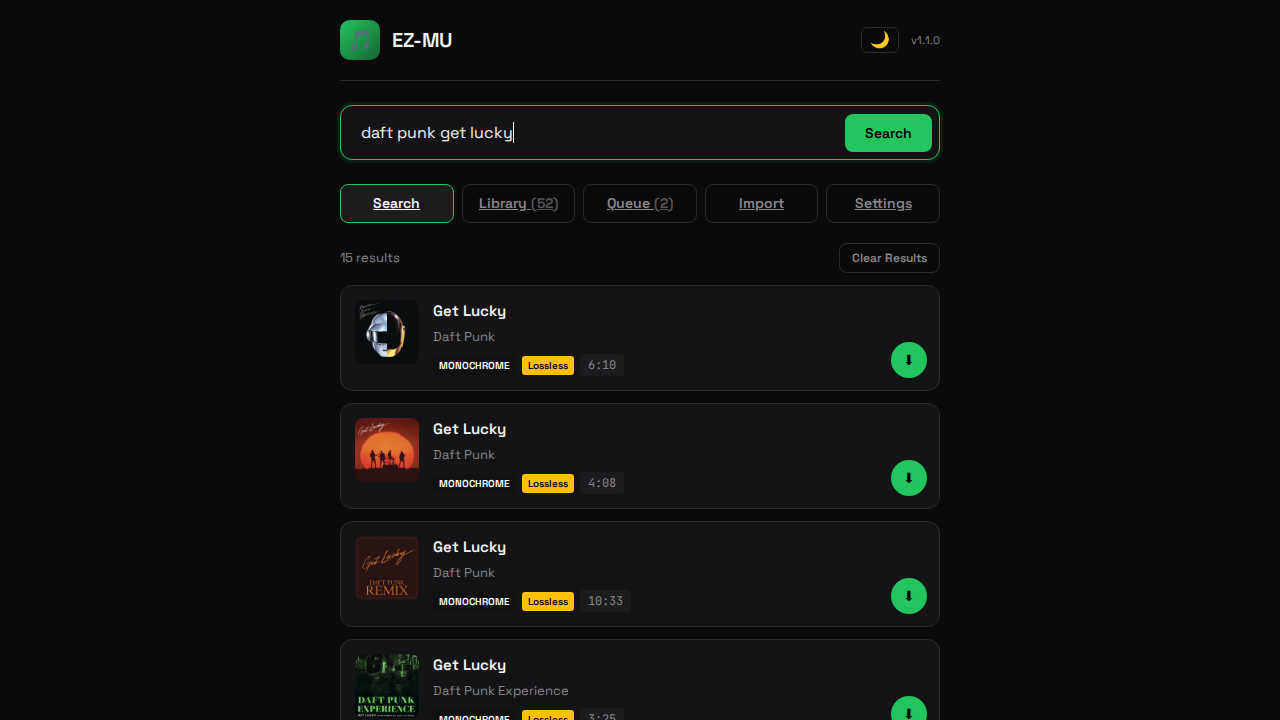
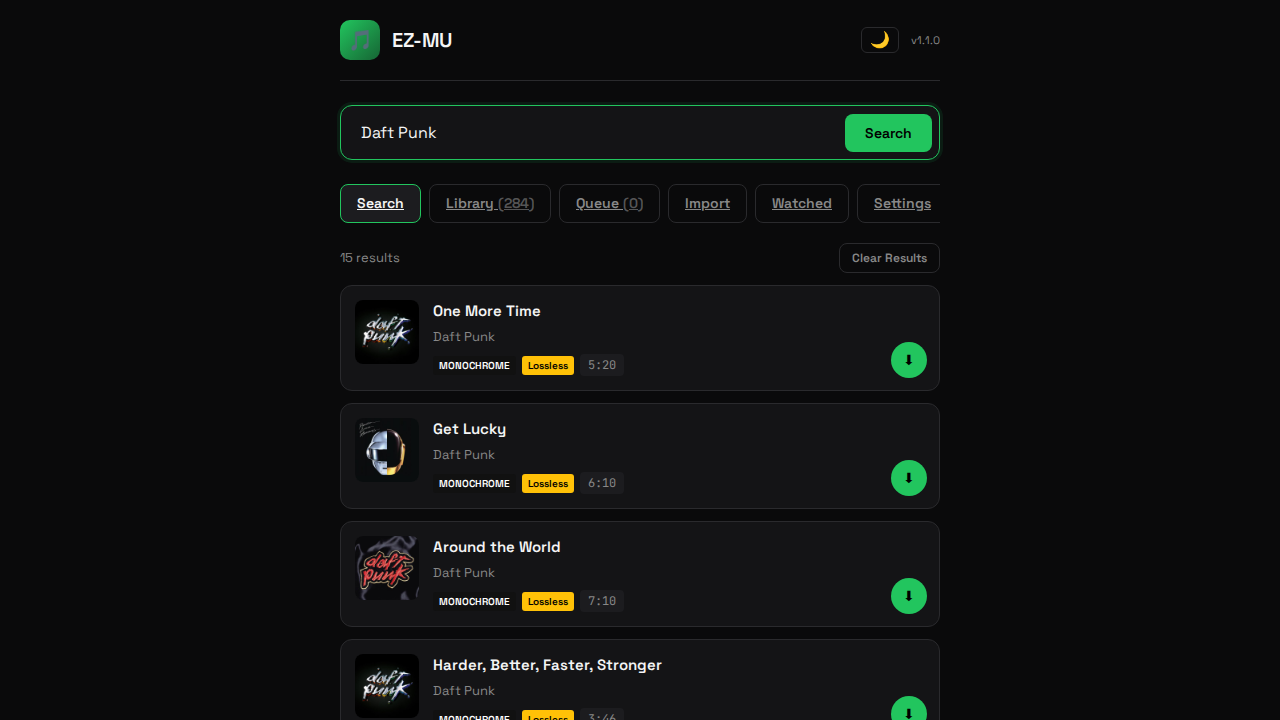
Update screenshots with all tabs and cache busting
New screenshots:
- Queue: Shows download queue with status indicators
- Import: Playlist URL import and bulk text import
- Watched: Watched playlists with progress tracking

Updated screenshots:
- Search: Fresh search results with Daft Punk query
- Library: 284 tracks with playback controls
- Settings: Search sources and YouTube cookies
- System Info: Full features mode with all capabilities

Added cache busting (?v=20250224) to all screenshot URLs

diff --git a/README.md b/README.md
@@ -10,12 +10,16 @@ Refactored from [MusicGrabber](https://gitlab.com/g33kphr33k/musicgrabber) - a P
 
 <table>
   <tr>
-    <td><strong>Search</strong><br><img src="docs/screenshots/search.png" alt="Search results" width="400"></td>
-    <td><strong>Library</strong><br><img src="docs/screenshots/library.png" alt="Music library" width="400"></td>
+    <td><strong>Search</strong><br><img src="docs/screenshots/search.png?v=20250224" alt="Search results" width="400"></td>
+    <td><strong>Library</strong><br><img src="docs/screenshots/library.png?v=20250224" alt="Music library" width="400"></td>
   </tr>
   <tr>
-    <td><strong>Settings</strong><br><img src="docs/screenshots/settings.png" alt="Settings page" width="400"></td>
-    <td><strong>System Info</strong><br><img src="docs/screenshots/system-info.png" alt="System information" width="400"></td>
+    <td><strong>Queue</strong><br><img src="docs/screenshots/queue.png?v=20250224" alt="Download queue" width="400"></td>
+    <td><strong>Import</strong><br><img src="docs/screenshots/import.png?v=20250224" alt="Playlist import" width="400"></td>
+  </tr>
+  <tr>
+    <td><strong>Watched</strong><br><img src="docs/screenshots/watched.png?v=20250224" alt="Watched playlists" width="400"></td>
+    <td><strong>Settings</strong><br><img src="docs/screenshots/settings.png?v=20250224" alt="Settings page" width="400"></td>
   </tr>
 </table>
 
